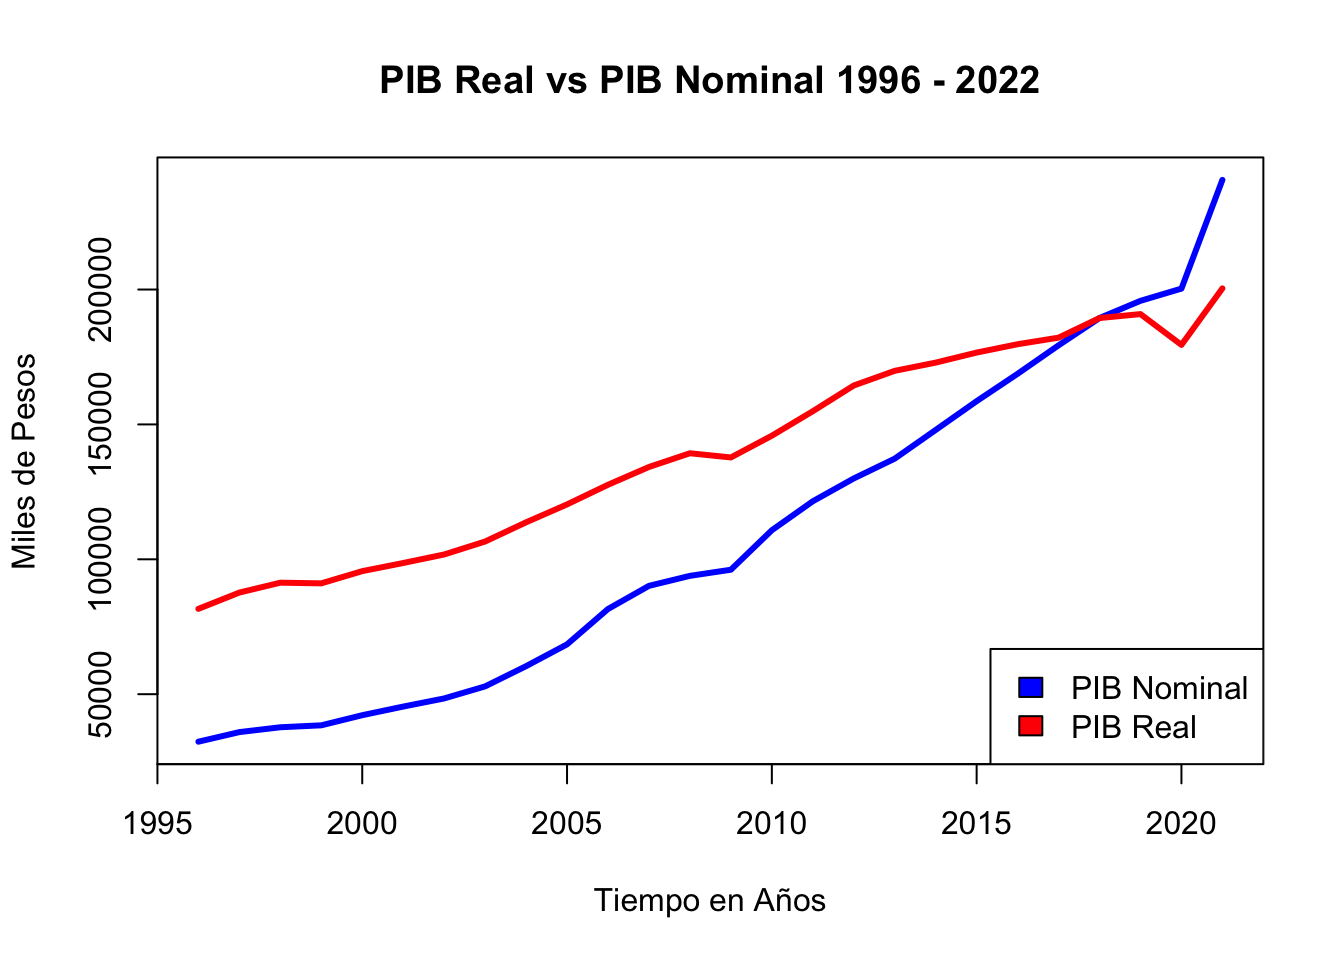
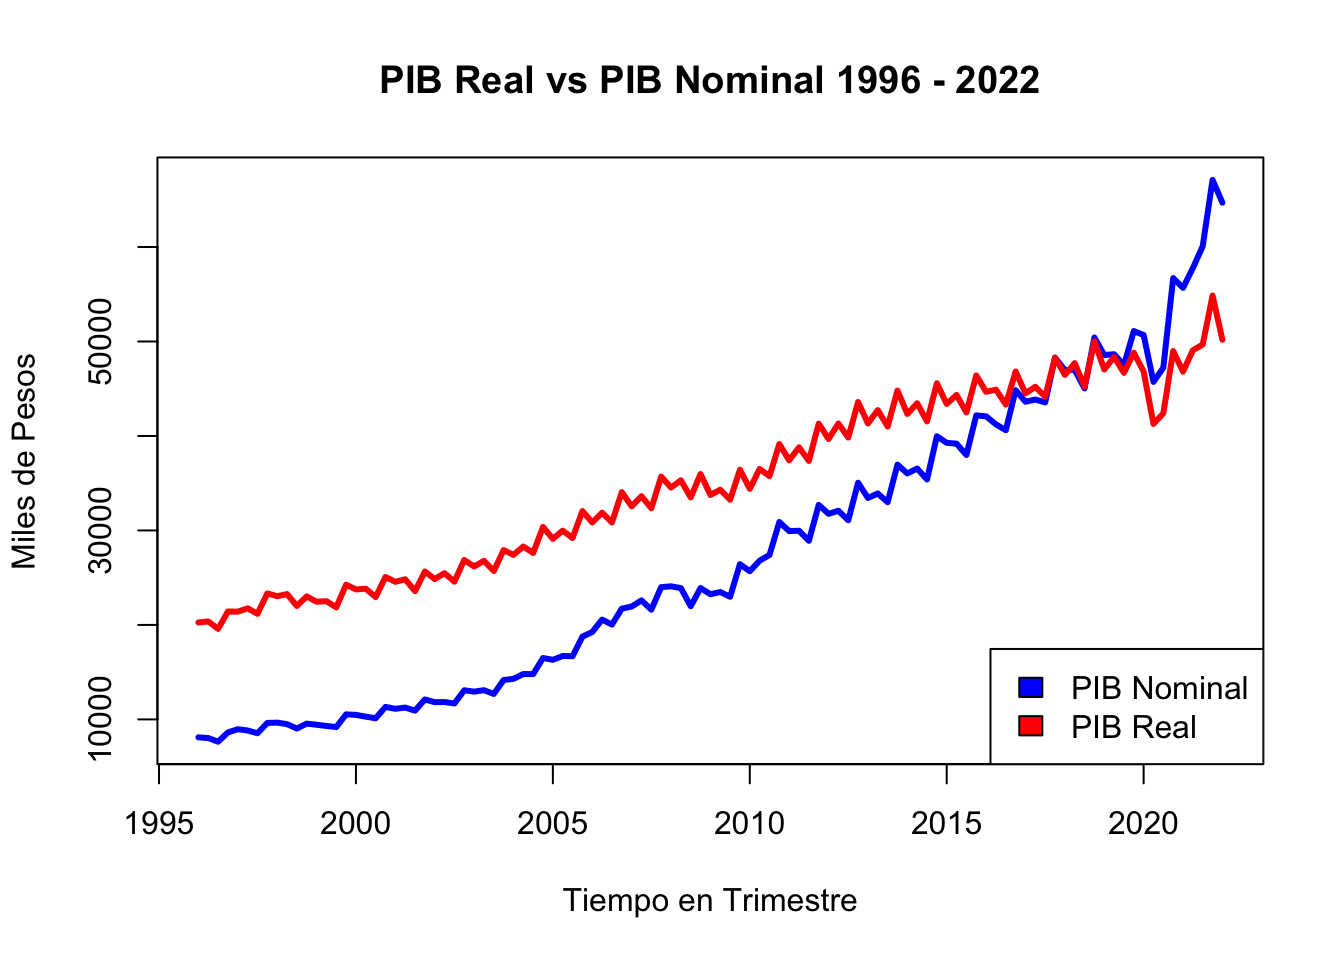
Cambio de Graficas

diff --git a/index.html b/index.html
@@ -256,9 +256,6 @@ $(document).ready(function () {
 <li>
   <a href="about.html">Documentación</a>
 </li>
-<li>
-  <a href="shiny.html">Shiny</a>
-</li>
       </ul>
       <ul class="nav navbar-nav navbar-right">
         
@@ -277,6 +274,7 @@ $(document).ready(function () {
 
 
 <p>En esta página ira todo lo relacionado conmigo. (pendiente)</p>
+<p><img src="index_files/figure-html/primer%20script-1.png" width="672" /><img src="index_files/figure-html/primer%20script-2.png" width="672" /></p>
 
 <p>Copyright &copy; 2016 Skynet, Inc. All rights reserved.</p>
 

diff --git a/about.html b/about.html
@@ -256,9 +256,6 @@ $(document).ready(function () {
 <li>
   <a href="about.html">Documentación</a>
 </li>
-<li>
-  <a href="shiny.html">Shiny</a>
-</li>
       </ul>
       <ul class="nav navbar-nav navbar-right">
         
